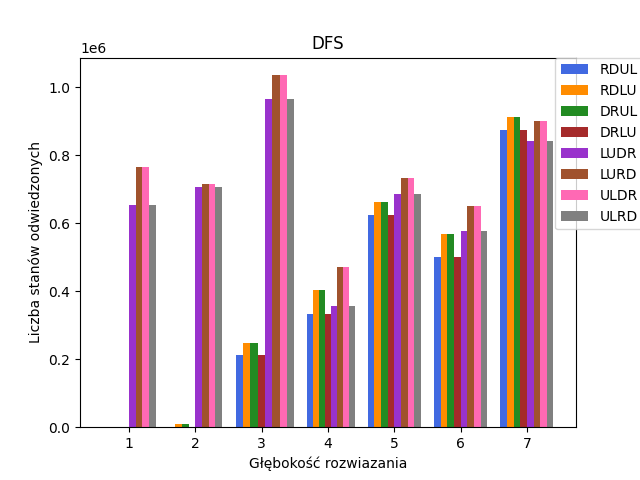
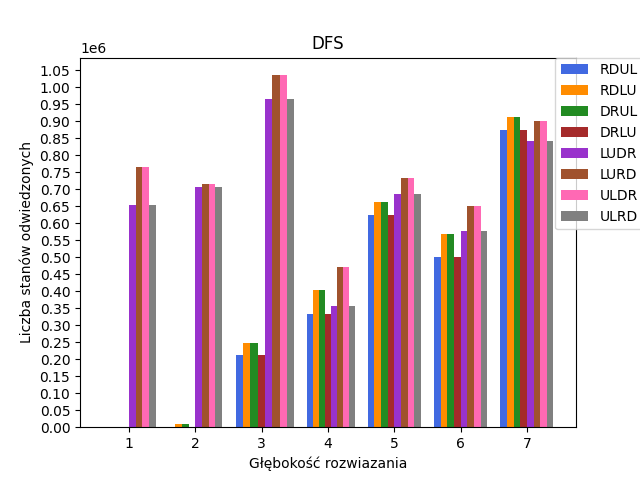
all graphs good

Changed region(s): [[0.0312, 0.125, 0.125, 0.9062]]

diff --git a/fifteen-puzzle-project/graphs.py b/fifteen-puzzle-project/graphs.py
@@ -1,5 +1,7 @@
 import chardet as chardet
 import matplotlib.pyplot as plt
+import numpy as np
+
 
 def summary_graph(data, nr_criterion, name_criterion, name_file, use_log_scale):
     plt.clf()
@@ -111,7 +113,15 @@ def astar_graph(data, nr_criterion, name_criterion, name_file, use_log_scale):
 
     # Dodanie tytułu i etykiet osi
     plt.title('A*')
+    if nr_criterion == 2:
+        plt.yticks(range(0, 24, 1))
     plt.xlabel('Głębokość rozwiązania')
+    if nr_criterion == 3:
+        plt.yticks(range(0, 11, 1))
+    plt.ylabel(name_criterion)
+    if nr_criterion == 5:
+        y_ticks = np.arange(0, 1.1, 0.1)
+        plt.yticks(y_ticks)
     plt.ylabel(name_criterion)
 
     # Dodanie legendy
@@ -222,6 +232,14 @@ def dfs_graph(data, nr_criterion, name_criterion, name_file, use_log_scale):
 
     # Dodajemy tytuł, opisy osi oraz legendę
     plt.title('DFS')
+    if nr_criterion == 1:
+        plt.yticks(range(0, 21, 1))
+    elif nr_criterion == 2:
+        y_ticks = np.arange(0, 1100000, 50000)
+        plt.yticks(y_ticks)
+    elif nr_criterion == 3:
+        y_ticks = np.arange(0, 1100000, 50000)
+        plt.yticks(y_ticks)
     plt.xlabel('Głębokość rozwiazania')
     plt.ylabel(name_criterion)
     if nr_criterion == 1 or nr_criterion == 2 or nr_criterion == 3 or nr_criterion == 4:
@@ -319,6 +337,10 @@ def bfs_graph(data, nr_criterion, name_criterion, name_file, use_log_scale):
 
     # Ustawienie tytułu oraz etykiet osi na wykresie.
     plt.title('BFS')
+    if nr_criterion == 2:
+        plt.yticks(range(0, 1050, 50))
+    if nr_criterion == 3:
+        plt.yticks(range(0, 450, 25))
     plt.xlabel('Głębokość rozwiązania')
     plt.ylabel(name_criterion)
     plt.legend(('RDUL', 'RDLU', 'DRUL', 'DRLU', 'LUDR', 'LURD', 'ULDR', 'ULRD'), loc='upper left')
